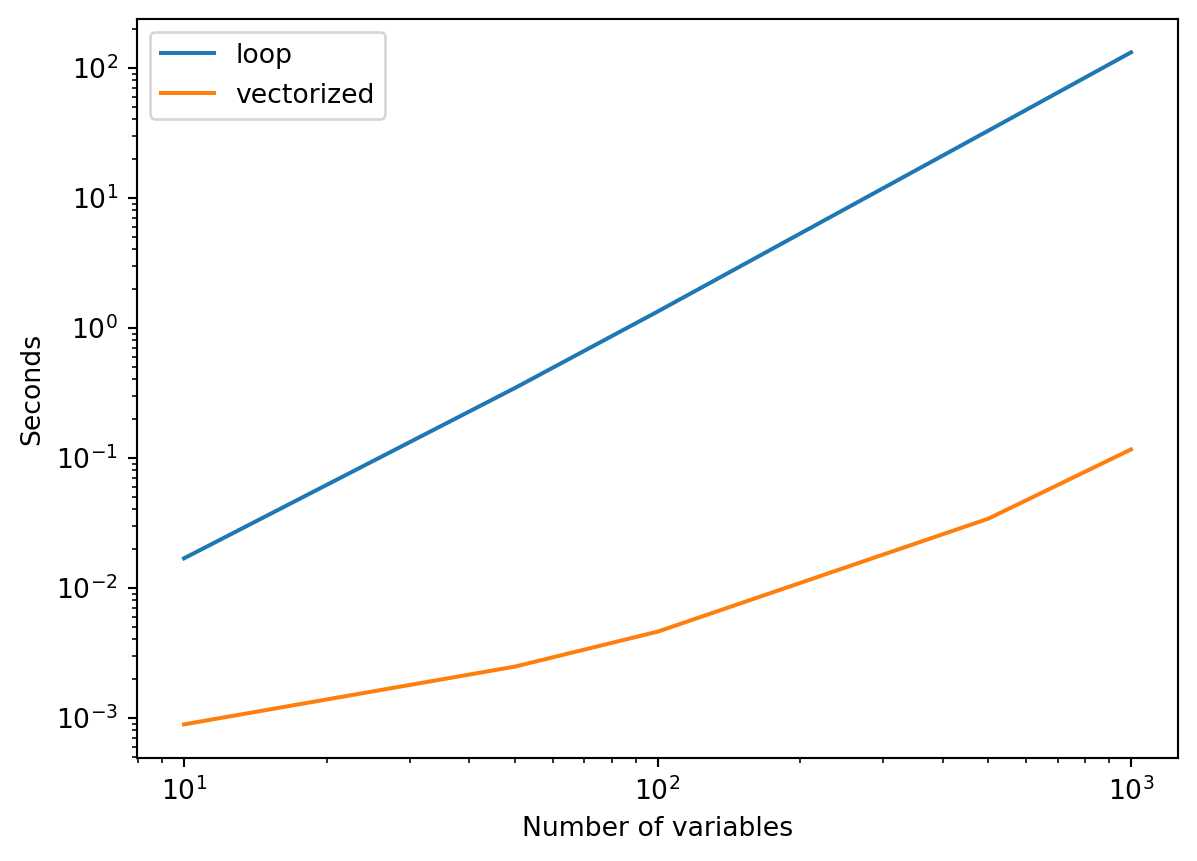
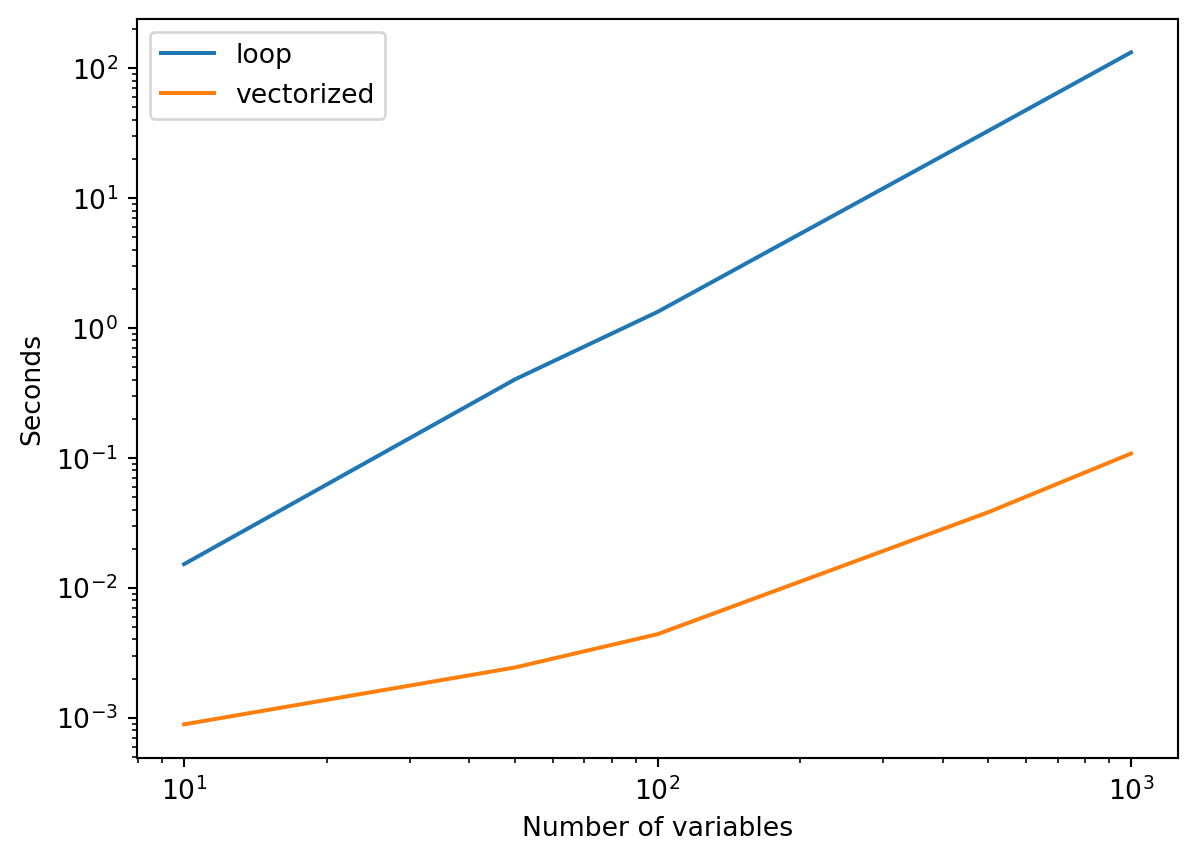
now preview/featured figure in masked-array post is generated via script that uses data generated by qmd code run. So do quarto render within post folder then run script there, then render main, then push

diff --git a/docs/posts/masked-arrays/index.html b/docs/posts/masked-arrays/index.html
@@ -352,7 +352,7 @@ Person 8       1       1       1       0</code></pre>
 <span id="cb12-6"><a href="#cb12-6" aria-hidden="true" tabindex="-1"></a>toc <span class="op">=</span> perf_counter()</span>
 <span id="cb12-7"><a href="#cb12-7" aria-hidden="true" tabindex="-1"></a><span class="bu">print</span>(<span class="ss">f"Computing all pairwise percentage agreements took </span><span class="sc">{</span>toc<span class="op">-</span>tic<span class="sc">:0.4f}</span><span class="ss"> seconds."</span>)</span></code><button title="Copy to Clipboard" class="code-copy-button"><i class="bi"></i></button></pre></div>
 <div class="cell-output cell-output-stdout">
-<pre><code>Computing all pairwise percentage agreements took 1.8366 seconds.</code></pre>
+<pre><code>Computing all pairwise percentage agreements took 1.8262 seconds.</code></pre>
 </div>
 </div>
 <p>This may not seem so bad. But consider that</p>
@@ -463,28 +463,28 @@ new = \lvert old-1 \rvert
   <tbody>
     <tr>
       <th>10</th>
-      <td>0.000162</td>
-      <td>0.000173</td>
+      <td>0.000170</td>
+      <td>0.000510</td>
     </tr>
     <tr>
       <th>50</th>
-      <td>0.005817</td>
-      <td>0.000225</td>
+      <td>0.004695</td>
+      <td>0.000219</td>
     </tr>
     <tr>
       <th>100</th>
-      <td>0.023475</td>
-      <td>0.000607</td>
+      <td>0.024745</td>
+      <td>0.000605</td>
     </tr>
     <tr>
       <th>500</th>
-      <td>0.490164</td>
-      <td>0.006845</td>
+      <td>0.497486</td>
+      <td>0.006731</td>
     </tr>
     <tr>
       <th>1000</th>
-      <td>2.386646</td>
-      <td>0.023026</td>
+      <td>1.910628</td>
+      <td>0.022473</td>
     </tr>
   </tbody>
 </table>
@@ -512,7 +512,7 @@ new = \lvert old-1 \rvert
 <span id="cb17-5"><a href="#cb17-5" aria-hidden="true" tabindex="-1"></a>plt.title(<span class="st">"Matrix-based operation beats loops by miles"</span>)</span>
 <span id="cb17-6"><a href="#cb17-6" aria-hidden="true" tabindex="-1"></a>plt.show()</span></code><button title="Copy to Clipboard" class="code-copy-button"><i class="bi"></i></button></pre></div>
 <div class="cell-output cell-output-display">
-<p><img src="index_files/figure-html/cell-12-output-1.png" width="593" height="451"></p>
+<p><img src="index_files/figure-html/cell-12-output-1.png" width="585" height="451"></p>
 </div>
 </div>
 </section>
@@ -746,7 +746,9 @@ Item 4     0.0     NaN     NaN     2.0</code></pre>
 <span id="cb38-30"><a href="#cb38-30" aria-hidden="true" tabindex="-1"></a>                          index<span class="op">=</span>number_variables_large)</span>
 <span id="cb38-31"><a href="#cb38-31" aria-hidden="true" tabindex="-1"></a></span>
 <span id="cb38-32"><a href="#cb38-32" aria-hidden="true" tabindex="-1"></a>df_missing.plot(loglog<span class="op">=</span><span class="va">True</span>, xlabel<span class="op">=</span><span class="st">"Number of variables"</span>, ylabel<span class="op">=</span><span class="st">"Seconds"</span>)</span>
-<span id="cb38-33"><a href="#cb38-33" aria-hidden="true" tabindex="-1"></a>plt.show()</span></code><button title="Copy to Clipboard" class="code-copy-button"><i class="bi"></i></button></pre></div>
+<span id="cb38-33"><a href="#cb38-33" aria-hidden="true" tabindex="-1"></a>plt.show()</span>
+<span id="cb38-34"><a href="#cb38-34" aria-hidden="true" tabindex="-1"></a></span>
+<span id="cb38-35"><a href="#cb38-35" aria-hidden="true" tabindex="-1"></a>df_missing.to_csv(<span class="st">"tests_missing.csv"</span>)</span></code><button title="Copy to Clipboard" class="code-copy-button"><i class="bi"></i></button></pre></div>
 <div class="cell-output cell-output-display">
 <p><img src="index_files/figure-html/cell-25-output-1.png" width="599" height="431"></p>
 </div>
@@ -827,8 +829,8 @@ Xb has data type int64.</code></pre>
 <span id="cb42-12"><a href="#cb42-12" aria-hidden="true" tabindex="-1"></a><span class="bu">print</span>(<span class="ss">f"np.dot(Xa.transpose(), Xa) took </span><span class="sc">{</span>sec_order_1<span class="sc">}</span><span class="ss"> seconds."</span>)</span>
 <span id="cb42-13"><a href="#cb42-13" aria-hidden="true" tabindex="-1"></a><span class="bu">print</span>(<span class="ss">f"np.dot(Xa, Xa.transpose()) took </span><span class="sc">{</span>sec_order_2<span class="sc">}</span><span class="ss"> seconds."</span>)</span></code><button title="Copy to Clipboard" class="code-copy-button"><i class="bi"></i></button></pre></div>
 <div class="cell-output cell-output-stdout">
-<pre><code>np.dot(Xa.transpose(), Xa) took 0.009479861741001515 seconds.
-np.dot(Xa, Xa.transpose()) took 0.008218657287998213 seconds.</code></pre>
+<pre><code>np.dot(Xa.transpose(), Xa) took 0.009303514758001256 seconds.
+np.dot(Xa, Xa.transpose()) took 0.008159338511000896 seconds.</code></pre>
 </div>
 </div>
 <p>A reader that is familiar with matrix computation will notice that <code>np.dot(Xa, Xa.transpose())</code> does not make sense for our data. The <code>X</code> used in this blog post has samples along rows and variables along columns. So <code>np.dot(Xa, Xa.transpose())</code> would give comparisons of samples not variables. If we had constructed <code>X</code> so that rows and columns were opposite then <code>np.dot(Xa, Xa.transpose())</code> would give us the desired comparisons of variables.</p>
@@ -847,8 +849,8 @@ np.dot(Xa, Xa.transpose()) took 0.008218657287998213 seconds.</code></pre>
 <span id="cb44-10"><a href="#cb44-10" aria-hidden="true" tabindex="-1"></a><span class="bu">print</span>(<span class="ss">f"np.dot(Xb.transpose(), Xb) took </span><span class="sc">{</span>sec_order_1<span class="sc">}</span><span class="ss"> seconds."</span>)</span>
 <span id="cb44-11"><a href="#cb44-11" aria-hidden="true" tabindex="-1"></a><span class="bu">print</span>(<span class="ss">f"np.dot(Xb, Xb.transpose()) took </span><span class="sc">{</span>sec_order_2<span class="sc">}</span><span class="ss"> seconds."</span>)</span></code><button title="Copy to Clipboard" class="code-copy-button"><i class="bi"></i></button></pre></div>
 <div class="cell-output cell-output-stdout">
-<pre><code>np.dot(Xb.transpose(), Xb) took 1.0419683060199896 seconds.
-np.dot(Xb, Xb.transpose()) took 0.47282201496003834 seconds.</code></pre>
+<pre><code>np.dot(Xb.transpose(), Xb) took 1.0335188447400288 seconds.
+np.dot(Xb, Xb.transpose()) took 0.4774828857199827 seconds.</code></pre>
 </div>
 </div>
 <p>The most striking thing is that, regardless or operation order, computation of <code>int64</code> data is much slower!</p>

diff --git a/docs/index.html b/docs/index.html
@@ -178,7 +178,7 @@ ul.task-list li input[type="checkbox"] {
 
 <div class="quarto-listing quarto-listing-container-default" id="listing-listing">
 <div class="list quarto-listing-default">
-<div class="quarto-post image-right" data-index="0" data-categories="analysis,missing data,numpy,vectorization" data-listing-date-sort="1691524800000" data-listing-file-modified-sort="1691826945619" data-listing-reading-time-sort="22.86">
+<div class="quarto-post image-right" data-index="0" data-categories="analysis,missing data,numpy,vectorization" data-listing-date-sort="1691524800000" data-listing-file-modified-sort="1691831962407" data-listing-reading-time-sort="22.86">
 <div class="thumbnail">
 <p><a href="./posts/masked-arrays/index.html"> <img src="./posts/masked-arrays/featured.png" class="thumnail-image" alt="Performance advantage for masked-matrix multiplication over loops"> </a></p>
 </div>

diff --git a/posts/masked-arrays/make_featured.py b/posts/masked-arrays/make_featured.py
@@ -4,8 +4,10 @@ import numpy as np
 import matplotlib.ticker as mticker
 
 
-df = pd.read_csv("tests_missing.csv", index_col=0)
+dpi = 96
+pixels_h, pixels_v = 1280, 640
 
+df = pd.read_csv("tests_missing.csv", index_col=0)
 df['speedup'] = df.loop / df.vectorized
 df['num_vars'] = df.index
 
@@ -14,39 +16,25 @@ speedup_max = df['speedup'].max()
 power = np.floor(np.log10(speedup_max))
 lower = np.floor(speedup_max / 10**power) * 10**power
 
-# 
-# fig, ax = plt.subplots(figsize=(7, 2.7), layout="constrained") # good aspect ratio
-dpi = 96
-pixels_h, pixels_v = 1280, 640
-
-# with plt.style.context('../featured.538style'):
 with plt.style.context(['fivethirtyeight','../featured.538style']):
     fig, ax = plt.subplots(figsize=(pixels_h/dpi, pixels_v/dpi), dpi=dpi)
-    # ax.plot(df['num_vars'], 
-    #         df['speedup'], 
-    #         color='blue', 
-    #         linewidth=3, 
-    #         linestyle='-',
-    #         marker='o')
     ax.plot(df['num_vars'], 
             df['speedup'])
     ax.set_xscale("log")
     ax.set_xlabel("Number of variables")
-    ax.set_ylabel("Speed advantage")
-    ax.set_title("Vectorization up to ")
-    ax.set_title(f"MM more than {lower:.0f}" + r"$\bf{X}$ faster than loops")
+    ax.set_ylabel("Speed advantage", labelpad=25)
+    ax.set_title(f"MM more than {lower:.0f}" + r"$\bf{X}$ faster than loops",
+                 pad=25)
     ylim = ax.get_ylim()
     ax.set_ylim((1,ylim[1]))
     ticks_loc = ax.get_yticks().tolist()
     ax.yaxis.set_major_locator(mticker.FixedLocator(ticks_loc))
     ytickLabels = [str(int(n)) + r"$\bf{X}$" for n in ticks_loc]
     ax.set_yticklabels(ytickLabels)
-    # ax.text(x=20, y=3500, s="Masked-matrix multiplication")
-    # plt.style.use('fivethirtyeight')  # fivethirtyeight, seaborn-poster
-    # plt.style.use('../featured.538style')  # fivethirtyeight, seaborn-poster
     plt.subplots_adjust(left=0.20, right=0.80, top=0.85, bottom=0.20)
     # plt.show()
     fig.savefig("featured.png", dpi=dpi, pad_inches=0.1*pixels_h/dpi)
+
 # featured.png: PNG image data, 700 x 270, 8-bit/color RGBA, non-interlaced
 #
 # Want 1280 x 640 with 40 pt border
